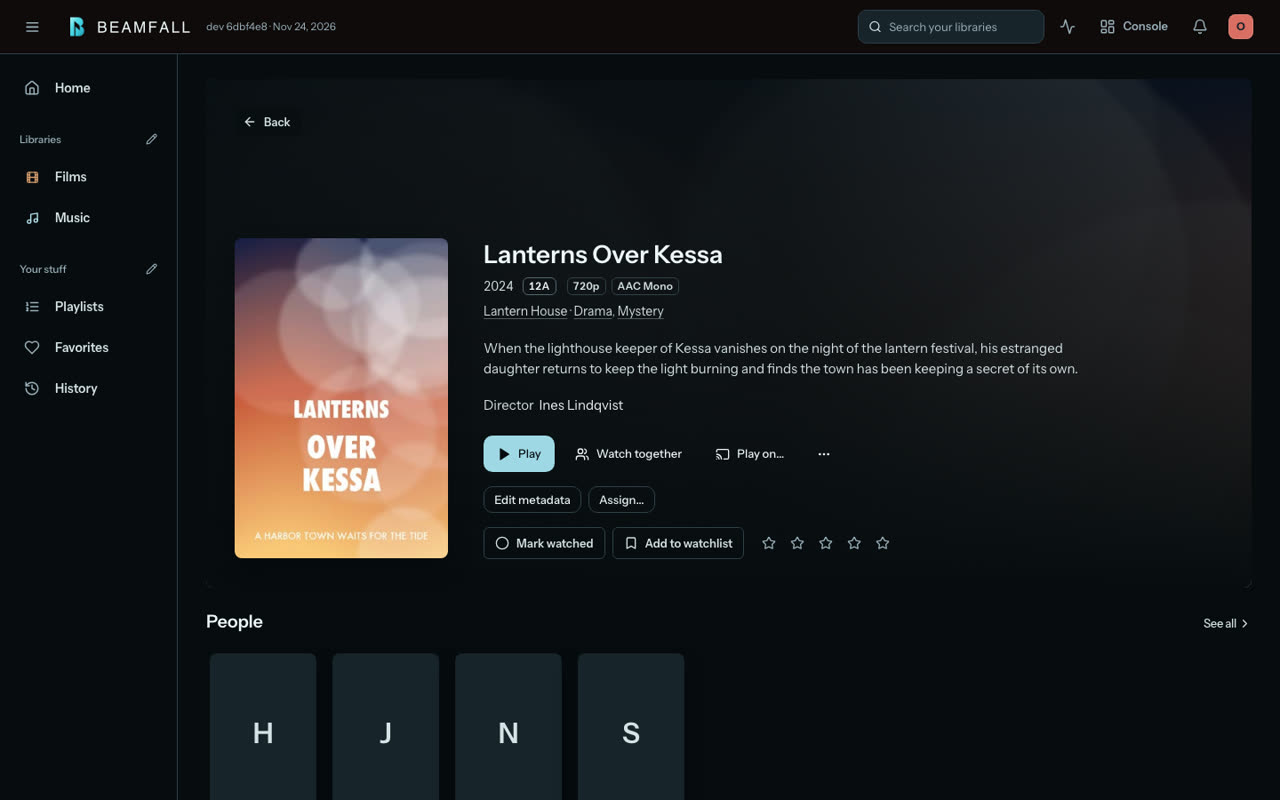
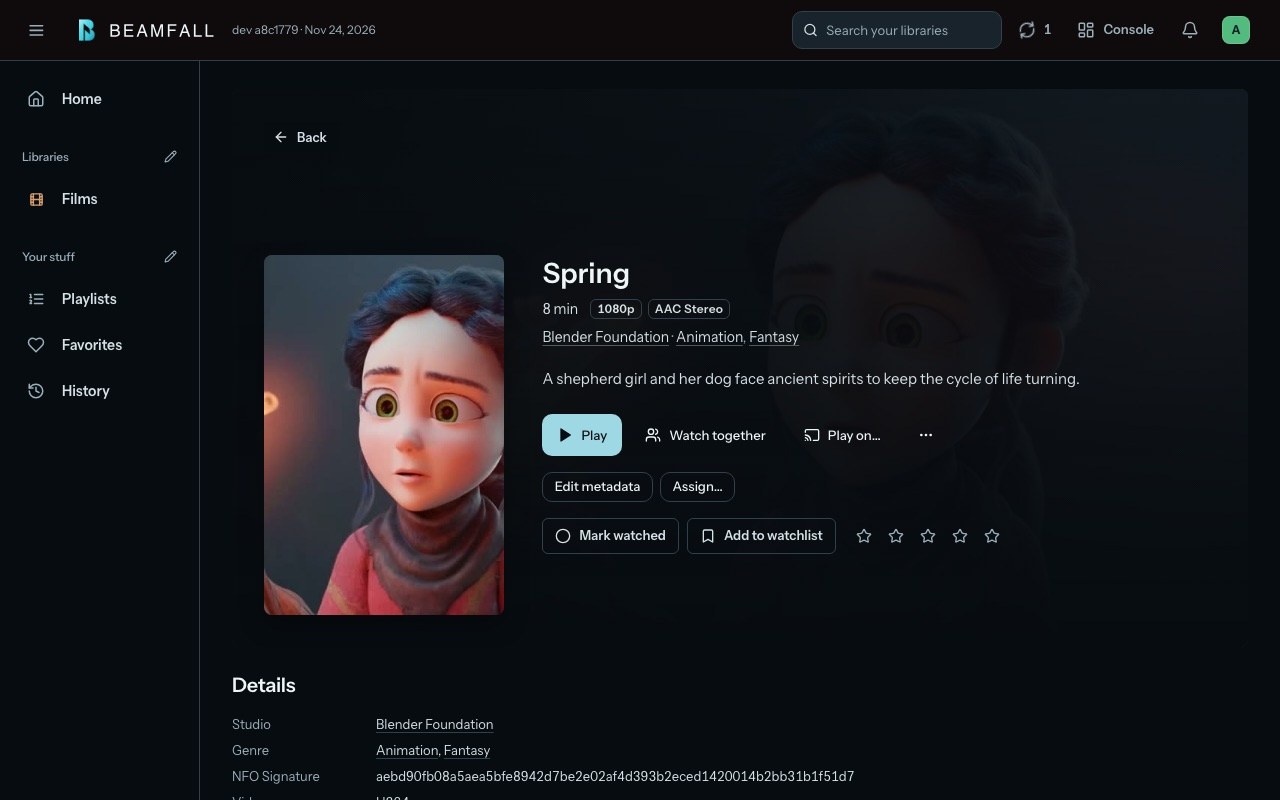
README: screenshots of a Blender Open Movies library, with CC-BY credits

diff --git a/README.md b/README.md
@@ -70,7 +70,15 @@
   <sub>The web app at phone width.</sub>
 </p>
 
-<sub>All screenshots are of the web app from this repository, running on a local server. The films, posters, and metadata are synthetic demo content generated for these images.</sub>
+<sub>All screenshots are of the web app from this repository, running on a local server with a library of
+Blender Open Movies. Posters are frames from the films; plots are our own one-line summaries.
+Films © Blender Foundation, used under Creative Commons licences:
+<a href="https://video.blender.org/w/bf1f3fb5-b119-4f9f-9930-8e20e892b898">Big Buck Bunny</a> (CC BY 3.0),
+<a href="https://video.blender.org/w/fb70d459-48d2-4db5-adba-813c84f9200a">Caminandes 2: Gran Dillama</a> (CC BY 3.0),
+<a href="https://video.blender.org/w/04da454b-9893-4184-98f3-248d00625efe">Charge</a> (CC BY 4.0),
+<a href="https://video.blender.org/w/0eb052d0-fd51-43e6-aa33-ecdbf77a5d40">Sintel</a> (CC BY 3.0),
+<a href="https://video.blender.org/w/3d95fb3d-c866-42c8-9db1-fe82f48ccb95">Spring</a> (CC BY 4.0) and
+<a href="https://video.blender.org/w/8533ea43-4271-4a57-9694-e9d0b35e1aa1">Tears of Steel</a> (CC BY 3.0).</sub>
 
 ## Clients and platforms
 
